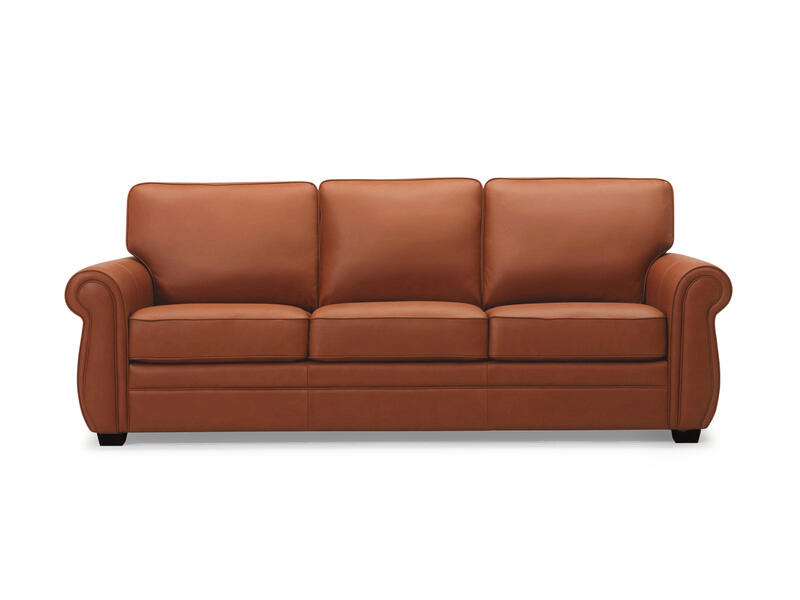
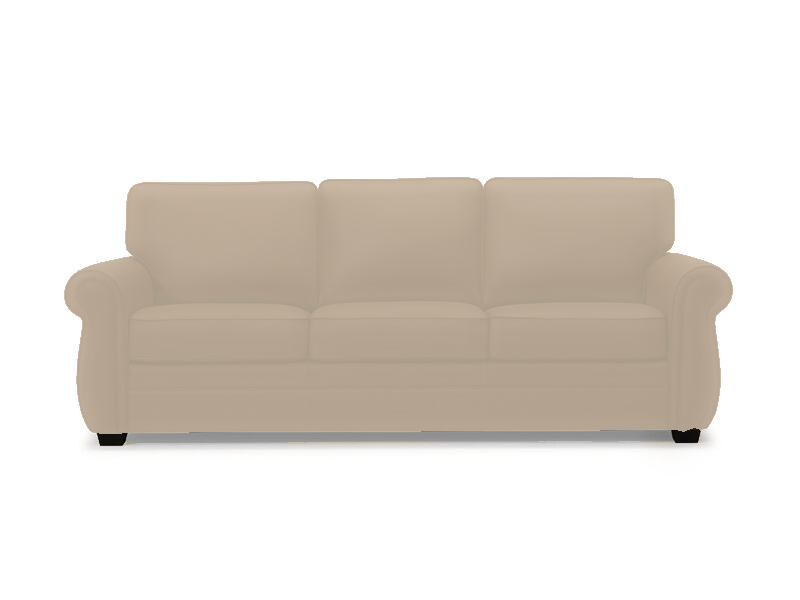
Enhance product rendering and preview functionality
- Added a new script command "preview:sofa" to facilitate local previewing of rendered assets.
- Updated the renderSingleProductSwatches script to include instructions for viewing renders.
- Introduced a render cache manifest to track rendered assets and their metadata, improving asset management.
- Refactored the renderProductSwatch function to update the render manifest with new entries, ensuring accurate tracking of generated outputs.

diff --git a/public/preview-test-sofa.html b/public/preview-test-sofa.html
@@ -1,0 +1,50 @@
+<!DOCTYPE html>
+<html lang="en">
+<head>
+  <meta charset="utf-8" />
+  <title>TEST-SOFA swatch preview</title>
+  <style>
+    body { font-family: system-ui, sans-serif; margin: 1.5rem; background: #f4f4f4; }
+    h1 { font-size: 1.25rem; }
+    .row { display: flex; flex-wrap: wrap; gap: 1.5rem; align-items: flex-start; }
+    figure { margin: 0; background: #fff; padding: 0.75rem; border-radius: 8px; box-shadow: 0 1px 4px rgba(0,0,0,.12); }
+    img { display: block; max-width: 100%; height: auto; }
+    figcaption { margin-top: 0.5rem; font-size: 0.85rem; color: #333; }
+    code { font-size: 0.75rem; word-break: break-all; }
+    .err { color: #a40; }
+  </style>
+</head>
+<body>
+  <h1>TEST-SOFA renders</h1>
+  <p>Run from repo root: <code>npm run render:swatches -- TEST-SOFA BALI-SILK</code> then refresh.</p>
+  <div class="row" id="panels"></div>
+  <p id="err" class="err" hidden></p>
+  <script>
+    const panels = document.getElementById('panels');
+    const err = document.getElementById('err');
+
+    async function load() {
+      const res = await fetch('/render-cache/TEST-SOFA/manifest.json?t=' + Date.now());
+      if (!res.ok) throw new Error('No manifest — run npm run render:swatches -- TEST-SOFA BALI-SILK');
+      const manifest = await res.json();
+
+      const base = document.createElement('figure');
+      base.innerHTML = '<img src="' + manifest.baseImageUrl + '" alt="Cognac source" /><figcaption>Original cognac (source.png)</figcaption>';
+      panels.appendChild(base);
+
+      for (const entry of Object.values(manifest.renders)) {
+        const fig = document.createElement('figure');
+        fig.innerHTML =
+          '<img src="' + entry.imageUrl + '?t=' + Date.now() + '" alt="" />' +
+          '<figcaption><strong>' + entry.label + '</strong><br><code>' + entry.imageUrl + '</code></figcaption>';
+        panels.appendChild(fig);
+      }
+    }
+
+    load().catch((e) => {
+      err.hidden = false;
+      err.textContent = e.message;
+    });
+  </script>
+</body>
+</html>

diff --git a/src/recolor/cache.ts b/src/recolor/cache.ts
@@ -1,6 +1,6 @@
 import { createHash } from 'crypto';
 import { existsSync, mkdirSync, readFileSync, writeFileSync } from 'fs';
-import { join } from 'path';
+import { join, resolve } from 'path';
 import type { ProductRenderAssets } from './types.js';
 import { RENDER_CACHE_DIR, productDir } from './paths.js';
 
@@ -43,4 +43,44 @@ export function publicRenderUrl(productCode: string, swatchCode: string, cacheKe
 
 export function sourceImagePath(productCode: string): string {
   return join(productDir(productCode), 'source.png');
+}
+
+export interface RenderCacheManifestEntry {
+  swatchCode: string;
+  label: string;
+  imageUrl: string;
+  outputPath: string;
+  cacheKey: string;
+  updatedAt: string;
+}
+
+export interface RenderCacheManifest {
+  productCode: string;
+  baseImageUrl: string;
+  renders: Record<string, RenderCacheManifestEntry>;
+}
+
+export function renderManifestPath(productCode: string): string {
+  return join(RENDER_CACHE_DIR, productCode, 'manifest.json');
+}
+
+/** Stable index so previews can find hashed PNGs without guessing filenames */
+export function updateRenderManifest(
+  productCode: string,
+  entry: RenderCacheManifestEntry,
+  baseImageUrl: string,
+): string {
+  const path = renderManifestPath(productCode);
+  mkdirSync(join(path, '..'), { recursive: true });
+  let manifest: RenderCacheManifest = {
+    productCode,
+    baseImageUrl,
+    renders: {},
+  };
+  if (existsSync(path)) {
+    manifest = JSON.parse(readFileSync(path, 'utf8')) as RenderCacheManifest;
+  }
+  manifest.renders[entry.swatchCode] = entry;
+  writeFileSync(path, JSON.stringify(manifest, null, 2));
+  return resolve(path);
 }

diff --git a/src/recolor/pipeline.ts b/src/recolor/pipeline.ts
@@ -5,7 +5,6 @@ import type { ProductRenderAssets, RenderRequest, RenderResult } from './types.j
 import { productDir, toPublicUrl } from './paths.js';
 import { loadSingleProductAssets, saveSingleProductAssets, createEmptyAssetsRecord } from './productAssets.js';
 import { getSingleProductConfig } from './singleProductConfig.js';
-import { getSwatchProfile } from './swatchRegistry.js';
 import { buildSegmentationForProduct } from './segment.js';
 import { saveDerivedMaps } from './maps.js';
 import { loadImageRGBA } from './imageIO.js';
@@ -26,7 +25,9 @@ import {
   publicRenderUrl,
   saveCachedRender,
   sourceImagePath,
+  updateRenderManifest,
 } from './cache.js';
+import { getSwatchProfile } from './swatchRegistry.js';
 import { loadMask, maskBoundingBox } from './masks.js';
 
 export async function ensureProductAssets(
@@ -121,7 +122,21 @@ export async function renderProductSwatch(request: RenderRequest): Promise<Rende
     .toBuffer();
 
   saveCachedRender(cachePath, pngBuf);
+  const manifestPath = updateRenderManifest(
+    productCode,
+    {
+      swatchCode,
+      label: swatch.label,
+      imageUrl: publicRenderUrl(productCode, swatchCode, cacheKey),
+      outputPath: cachePath,
+      cacheKey,
+      updatedAt: new Date().toISOString(),
+    },
+    assets.baseImageUrl,
+  );
   console.log(`[render] output: ${cachePath}`);
+  console.log(`[render] manifest: ${manifestPath}`);
+  console.log(`[render] preview:  /preview-test-sofa.html`);
 
   return {
     imageUrl: publicRenderUrl(productCode, swatchCode, cacheKey),

diff --git a/src/recolor/types.ts b/src/recolor/types.ts
@@ -12,6 +12,13 @@ export interface ProductRenderAssets {
   updatedAt: string;
 }
 
+export interface SwatchRecolorTuning {
+  /** 0–1: how much original photo L to keep (lower = more swatch lightness) */
+  preserveLuminance?: number;
+  /** 0–1: how much swatch a/b chroma to apply */
+  textureBlend?: number;
+}
+
 export interface SwatchProfile {
   code: string;
   label: string;
@@ -20,6 +27,7 @@ export interface SwatchProfile {
   grainStrength: number;
   highlightSoftness: number;
   textureMapUrl?: string;
+  recolor?: SwatchRecolorTuning;
 }
 
 export interface SingleProductConfig {

diff --git a/src/recolor/recolor.ts b/src/recolor/recolor.ts
@@ -47,12 +47,12 @@ export async function recolorUpholstery(
 
   const out = Buffer.from(baseImage.data);
   const { width, height, channels } = baseImage;
-  const preserve = config.preserveLuminance;
+  const preserve = swatch.recolor?.preserveLuminance ?? config.preserveLuminance;
   const shadowStr = config.shadowStrength;
   const detailStr = config.detailStrength;
   const chromaStr = config.chromaVariationStrength * swatch.chromaVariation;
   const hiComp = config.highlightCompression * swatch.highlightSoftness;
-  const texBlend = config.textureBlend * swatch.grainStrength;
+  const texBlend = swatch.recolor?.textureBlend ?? config.textureBlend * swatch.grainStrength;
 
   for (let j = 0; j < width * height; j++) {
     if (upholsteryMask.data[j] < 128) continue;

diff --git a/scripts/renderSingleProductSwatches.ts b/scripts/renderSingleProductSwatches.ts
@@ -29,3 +29,6 @@ for (const swatchCode of swatches) {
   console.log(`  output file:  ${result.outputPath}`);
   console.log(`  public URL:   ${result.imageUrl}`);
 }
+
+console.log('\nView renders: npm run preview:sofa');
+console.log('Then open: http://localhost:3456/preview-test-sofa.html');

diff --git a/src/recolor/swatchRegistry.ts b/src/recolor/swatchRegistry.ts
@@ -9,6 +9,7 @@ const SWATCHES: SwatchProfile[] = [
     grainStrength: 0.2,
     highlightSoftness: 0.18,
     textureMapUrl: '/swatch-assets/bali-silk-texture.png',
+    recolor: { preserveLuminance: 0.08, textureBlend: 0.95 },
   },
   {
     code: 'REIN-GREY',